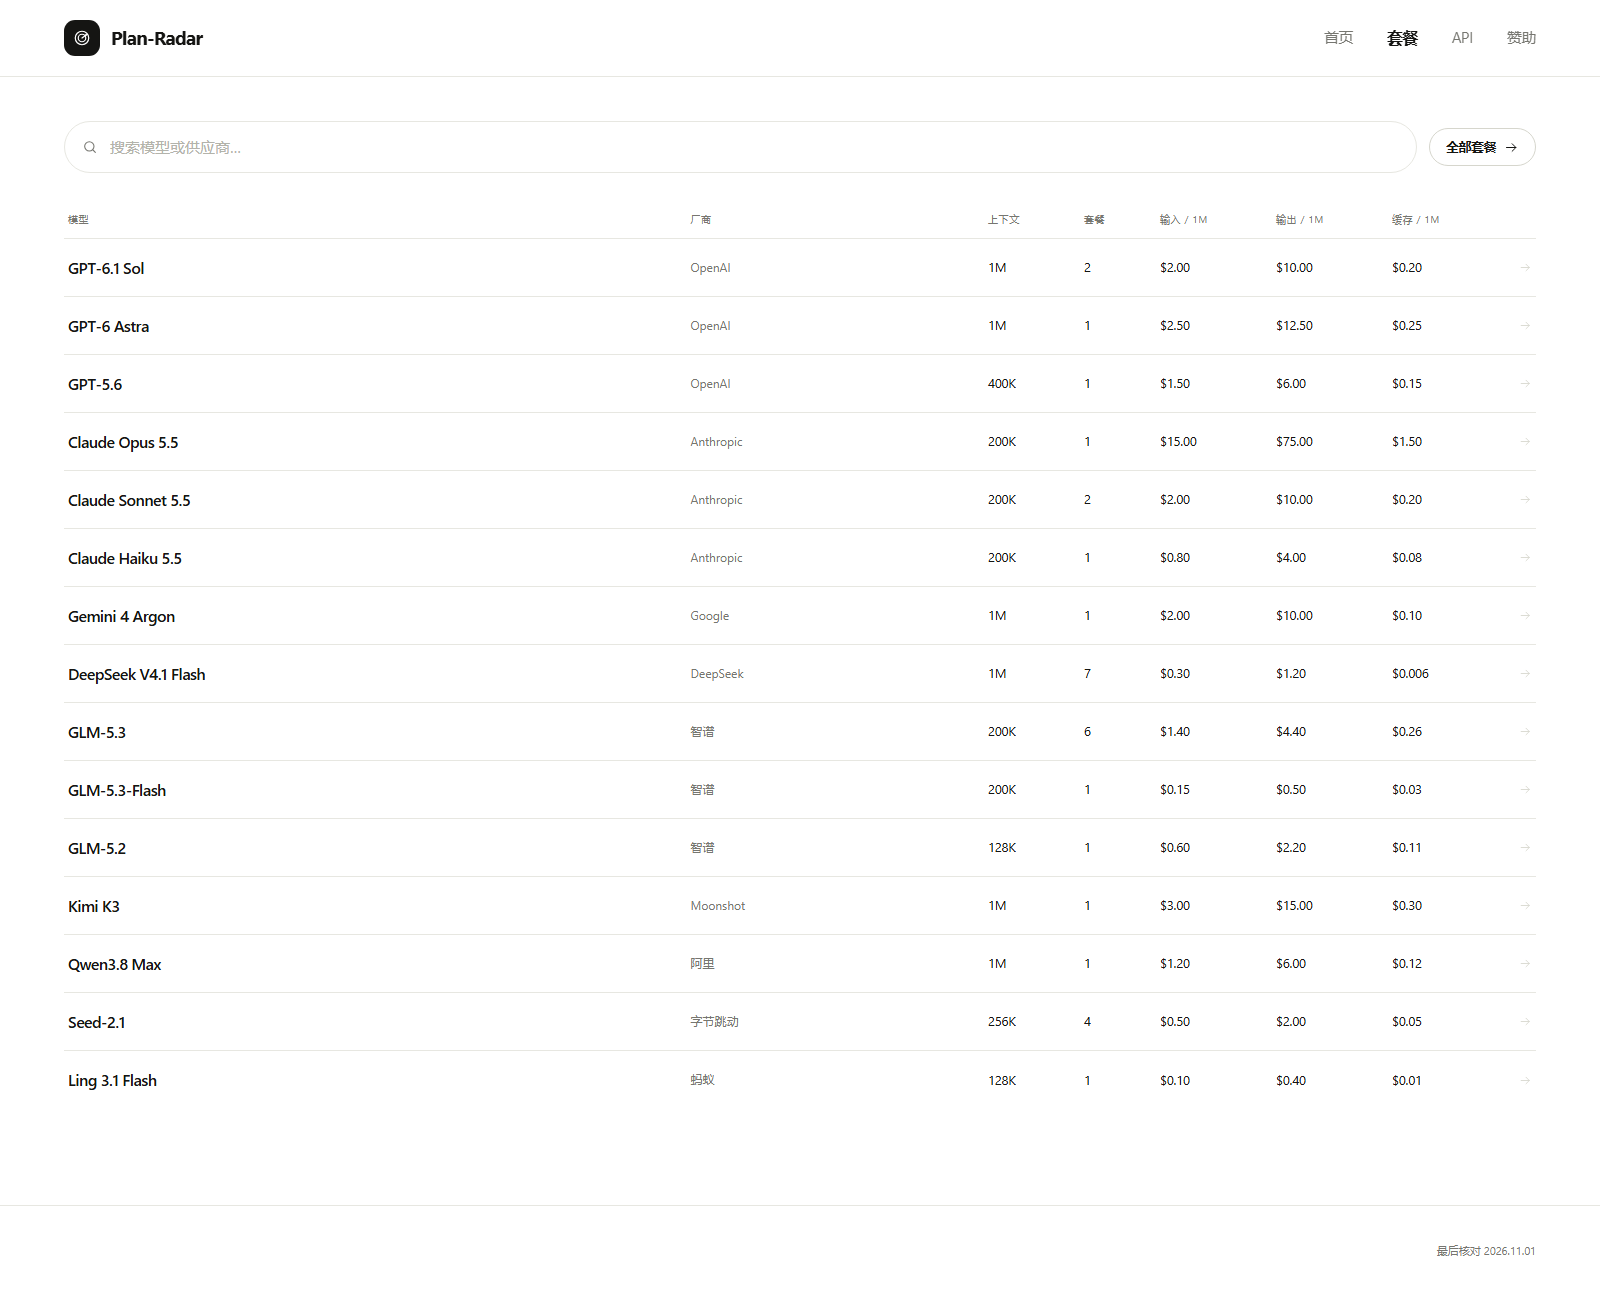
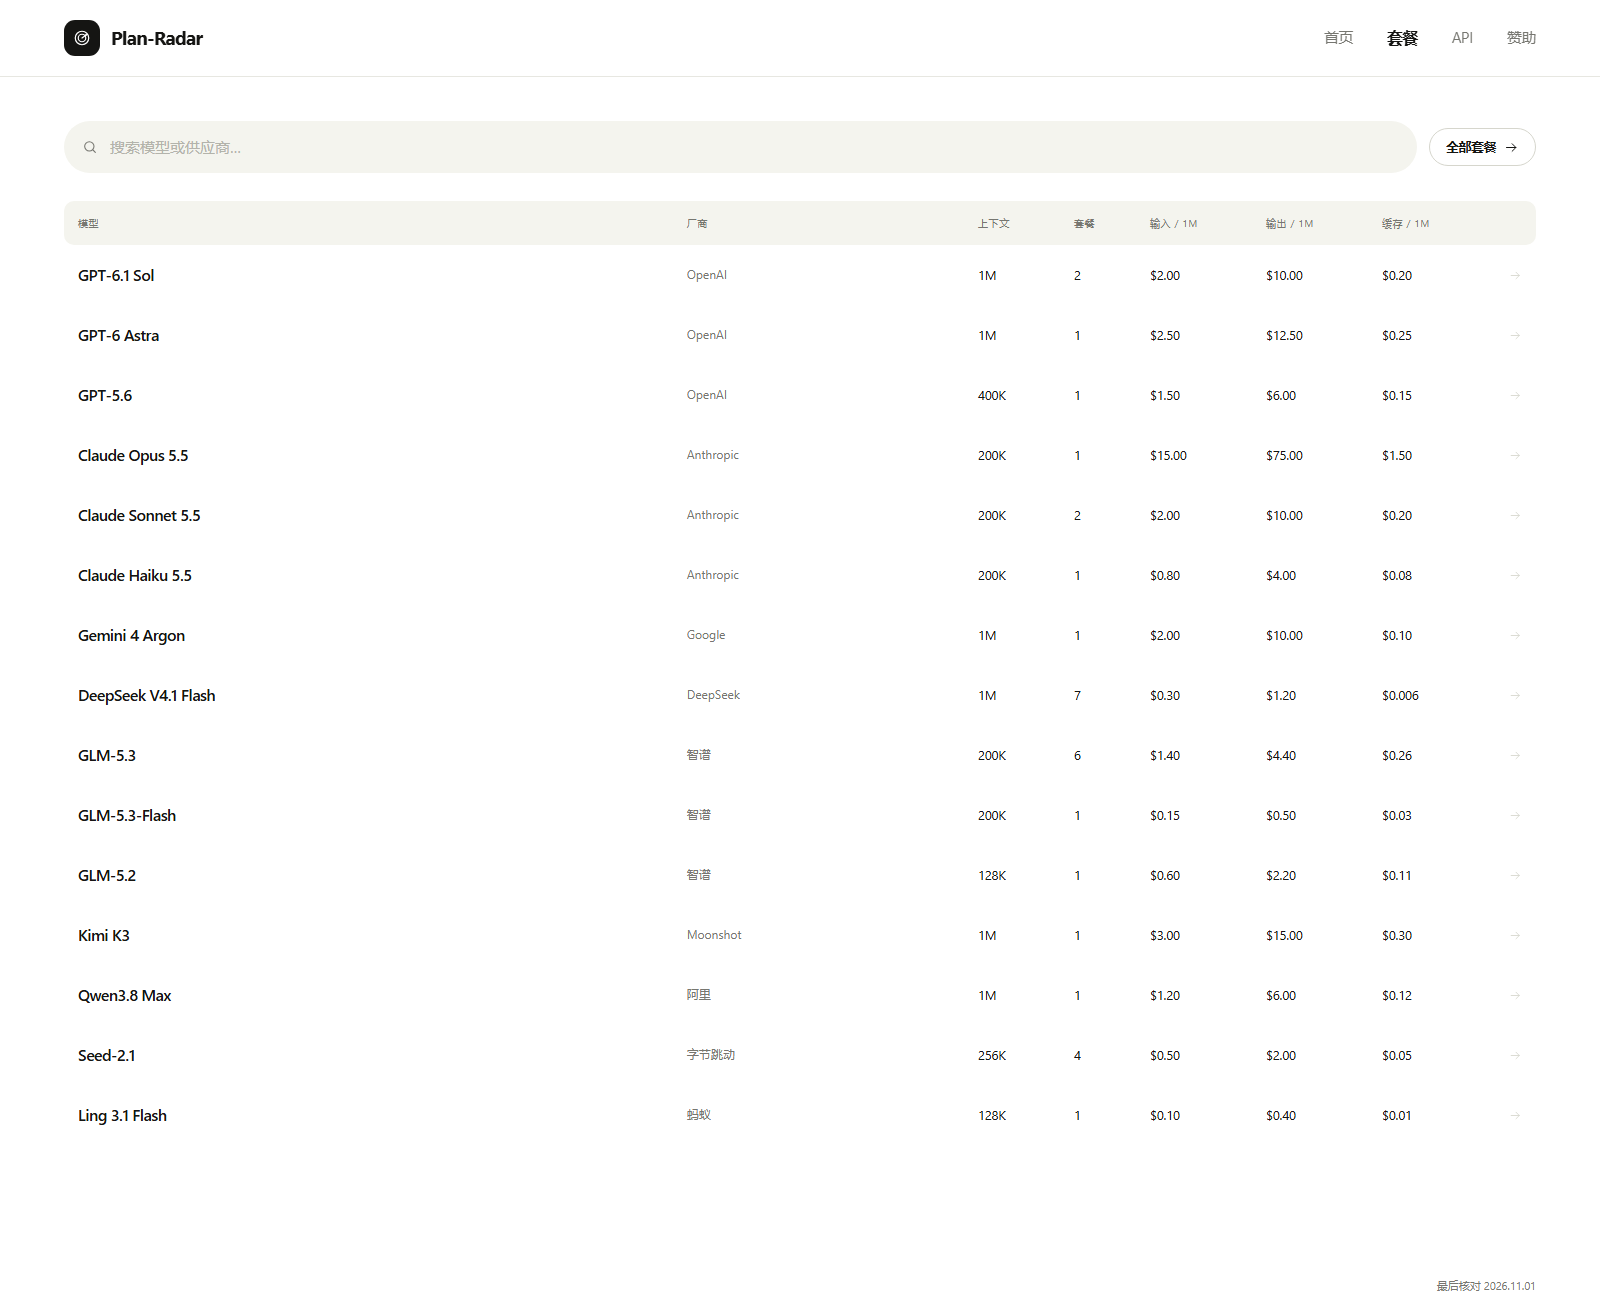
fix: table hierarchy

diff --git a/app/globals.css b/app/globals.css
@@ -628,13 +628,16 @@ h1, h2, h3, p { margin: 0; }
   width: min(600px, 100%);
   height: 52px;
   padding: 0 17px;
-  border: 1px solid var(--line);
+  border: 1px solid transparent;
   border-radius: 999px;
-  background: #fff;
+  background: #f4f4ee;
   color: var(--muted);
-  transition: border-color 0.18s ease;
+  transition: background 0.18s ease, border-color 0.18s ease;
 }
-.catalog-search:focus-within { border-color: var(--ink); }
+.catalog-search:focus-within {
+  background: #fff;
+  border-color: var(--line-2);
+}
 .catalog-search-wide { width: 100%; max-width: none; }
 .catalog-search input {
   flex: 1;
@@ -737,19 +740,24 @@ h1, h2, h3, p { margin: 0; }
   grid-template-columns: minmax(220px, 1.4fr) minmax(90px, 0.65fr) 80px 60px 100px 100px 100px 24px;
 }
 .model-table-head {
-  min-height: 38px;
-  border-bottom: 1px solid var(--line);
+  min-height: 44px;
+  padding: 0 14px;
+  border-bottom: 0;
+  border-radius: 10px;
+  background: #f4f4ee;
   font-size: 10px;
   letter-spacing: 0.06em;
   color: var(--muted);
 }
 .model-row {
-  min-height: 58px;
-  border-bottom: 1px solid var(--line);
+  min-height: 60px;
+  padding: 0 14px;
+  border-bottom: 0;
+  border-radius: 8px;
   color: var(--ink);
   transition: background 0.16s ease;
 }
-.model-row:hover { background: var(--soft); }
+.model-row:hover { background: #f8f8f4; }
 .model-row:last-child { border-bottom: 0; }
 .model-cell b { font-size: 15.5px; font-weight: 550; letter-spacing: -0.02em; }
 .model-row .muted { font-size: 12px; color: var(--muted); }
@@ -1439,7 +1447,7 @@ h1, h2, h3, p { margin: 0; }
 .site-footer {
   margin-top: 96px;
   padding: 36px 0 44px;
-  border-top: 1px solid var(--line);
+  border-top: 0;
 }
 .footer-inner {
   display: flex;
